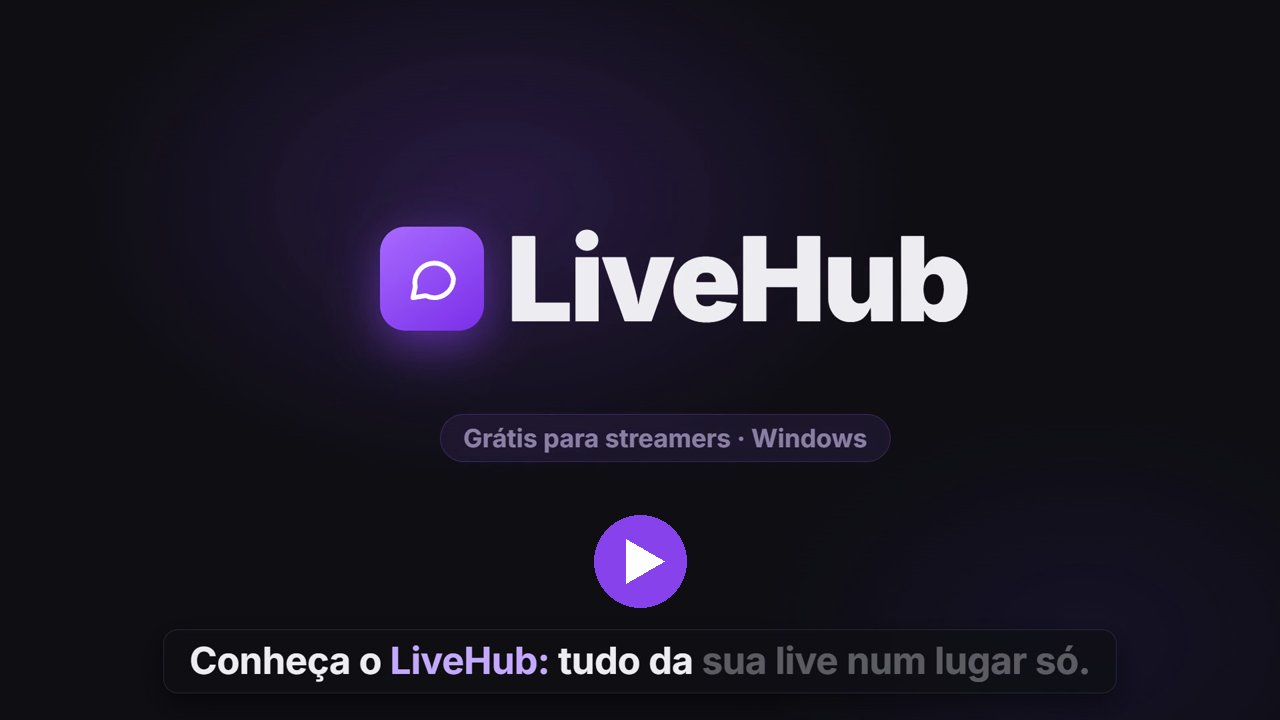
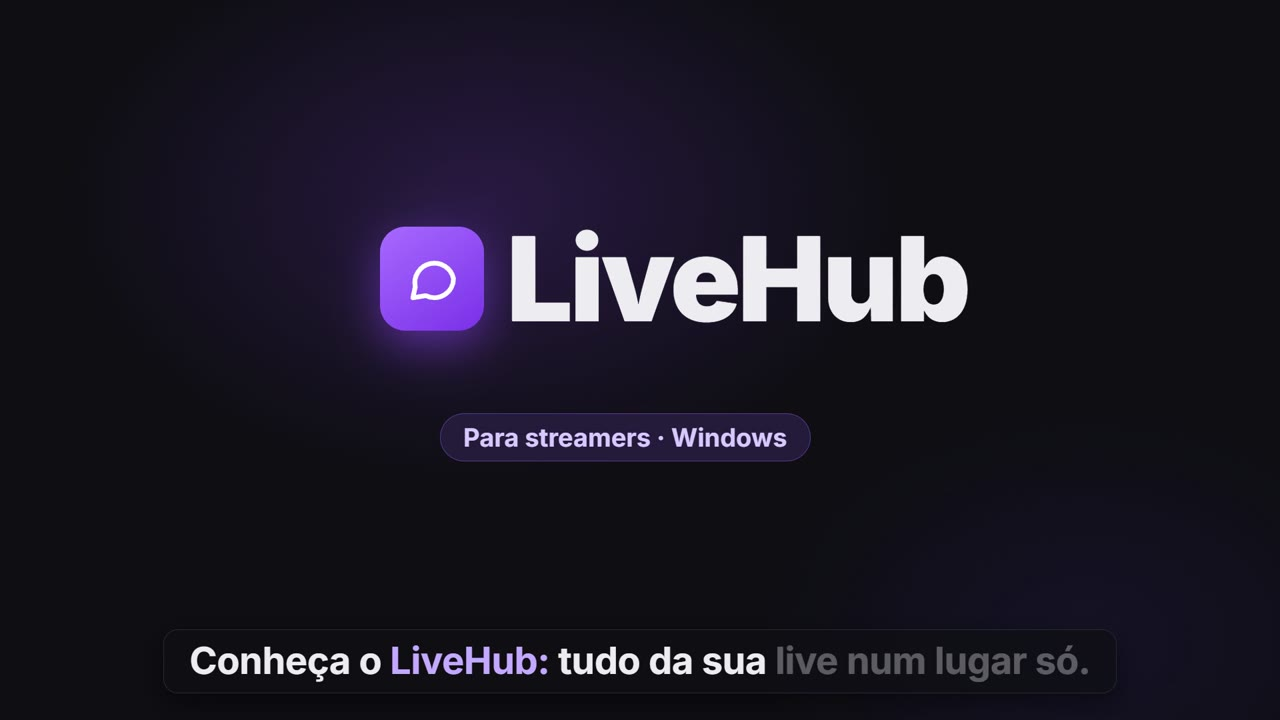
Ajusta layout e capa do video

Changed region(s): [[0.3438, 0.55, 0.7188, 0.6417], [0.4375, 0.7028, 0.5625, 0.8556], [0.5312, 0.8861, 0.5938, 0.9472]]

diff --git a/livehub/index.html b/livehub/index.html
@@ -43,11 +43,11 @@ h2{font-size:clamp(1.5rem,4vw,2rem);font-weight:800;margin-bottom:12px;letter-sp
 .video{margin-top:40px;border-radius:14px;overflow:hidden;border:1px solid var(--line);background:#000}
 .video video{width:100%;height:auto;aspect-ratio:16/9}
 .band{background:var(--side);border-block:1px solid var(--line)}
-.feat{display:grid;gap:20px}
+.feat{display:grid;gap:20px;align-items:start}
 .card{background:var(--card);border:1px solid var(--line);border-radius:14px;padding:20px;display:flex;flex-direction:column;gap:12px;min-width:0}
 .card h3{font-size:1.15rem}
 .card p{margin:0;color:var(--mut);font-size:.95rem}
-.card img{border-radius:10px;border:1px solid var(--line);background:#101017;margin-top:auto}
+.card img{border-radius:10px;border:1px solid var(--line);background:#101017}
 .stats{display:grid;gap:16px;grid-template-columns:1fr}
 .stat{background:var(--card);border:1px solid var(--line);border-radius:14px;padding:22px;text-align:center}
 .stat b{display:block;font-size:2.2rem;font-weight:800;color:var(--accl)}
